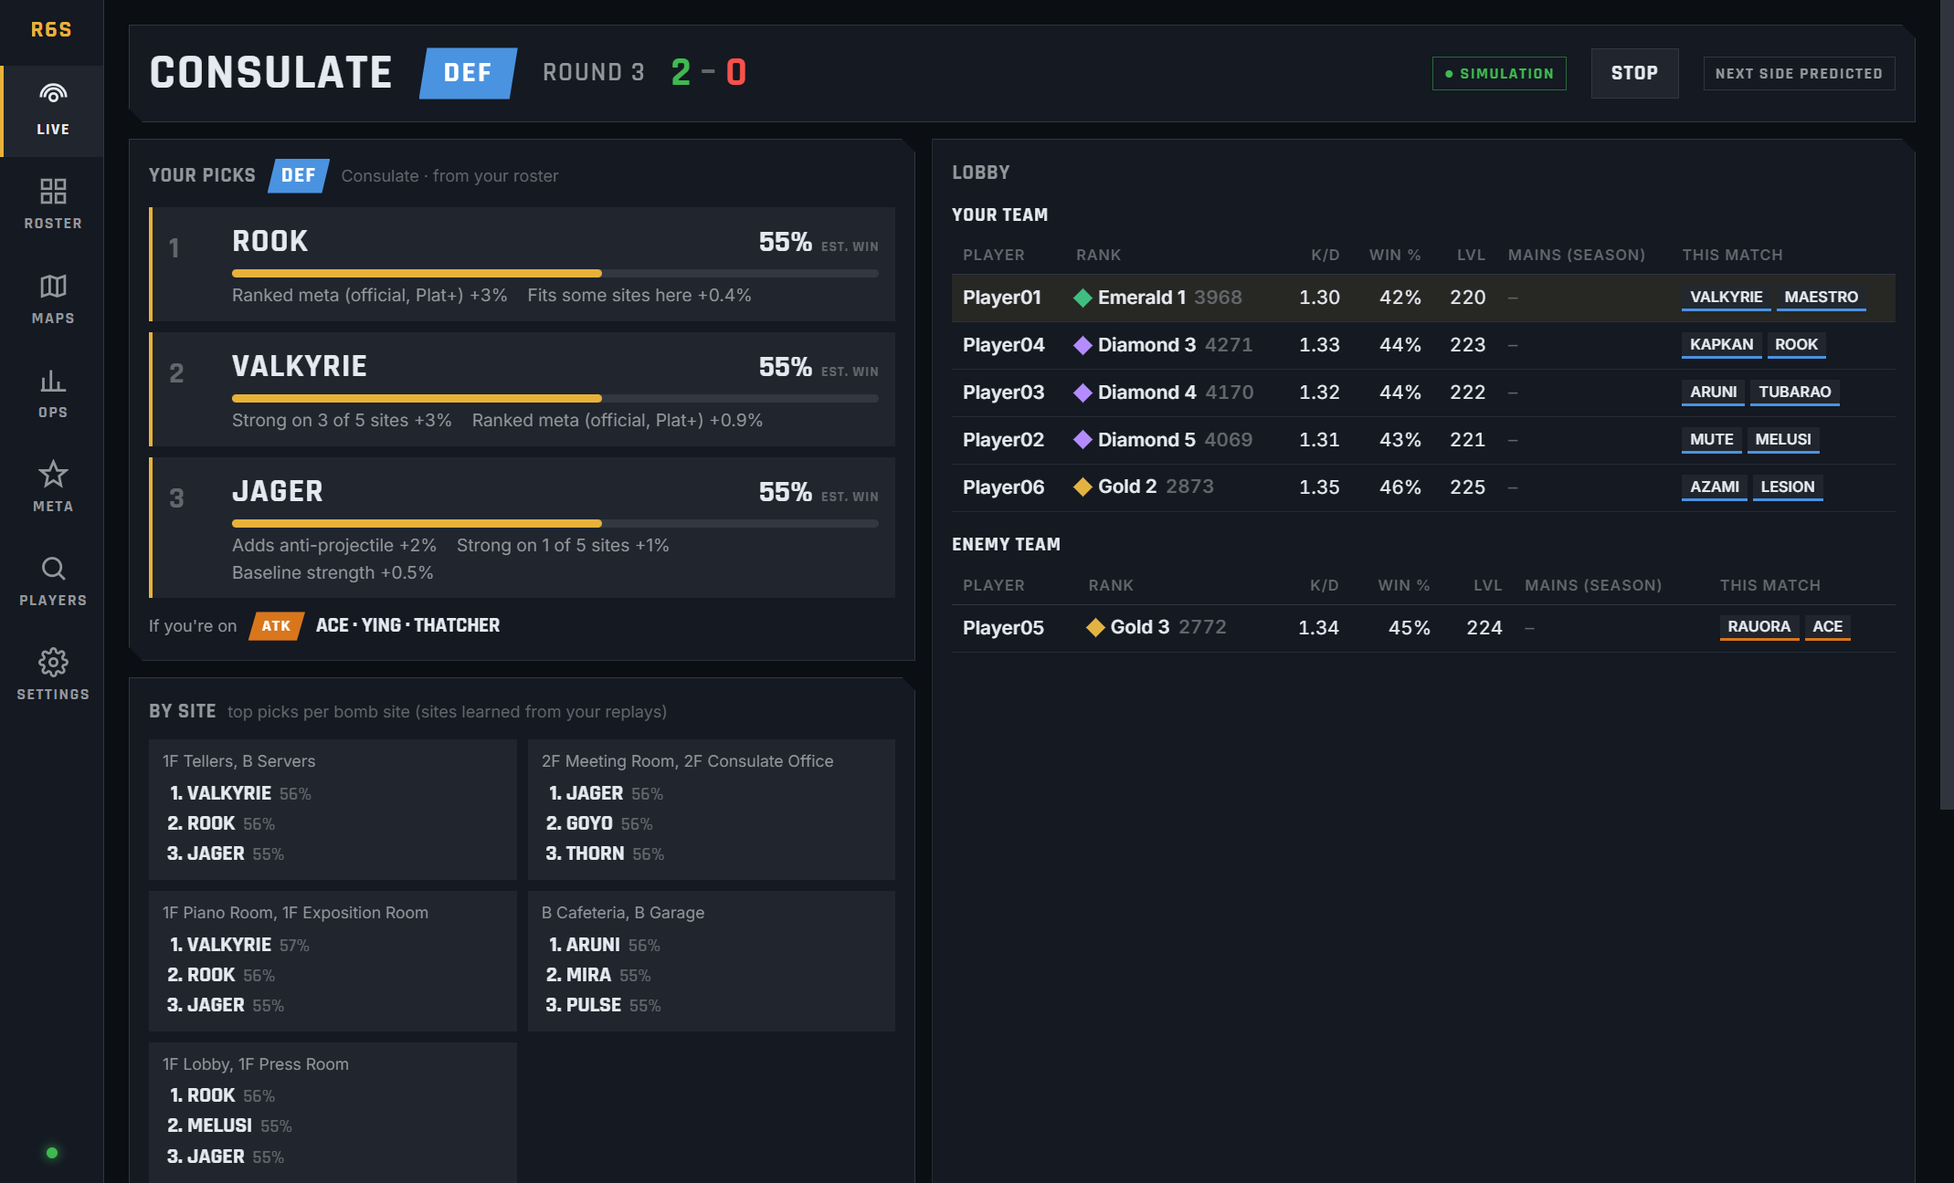
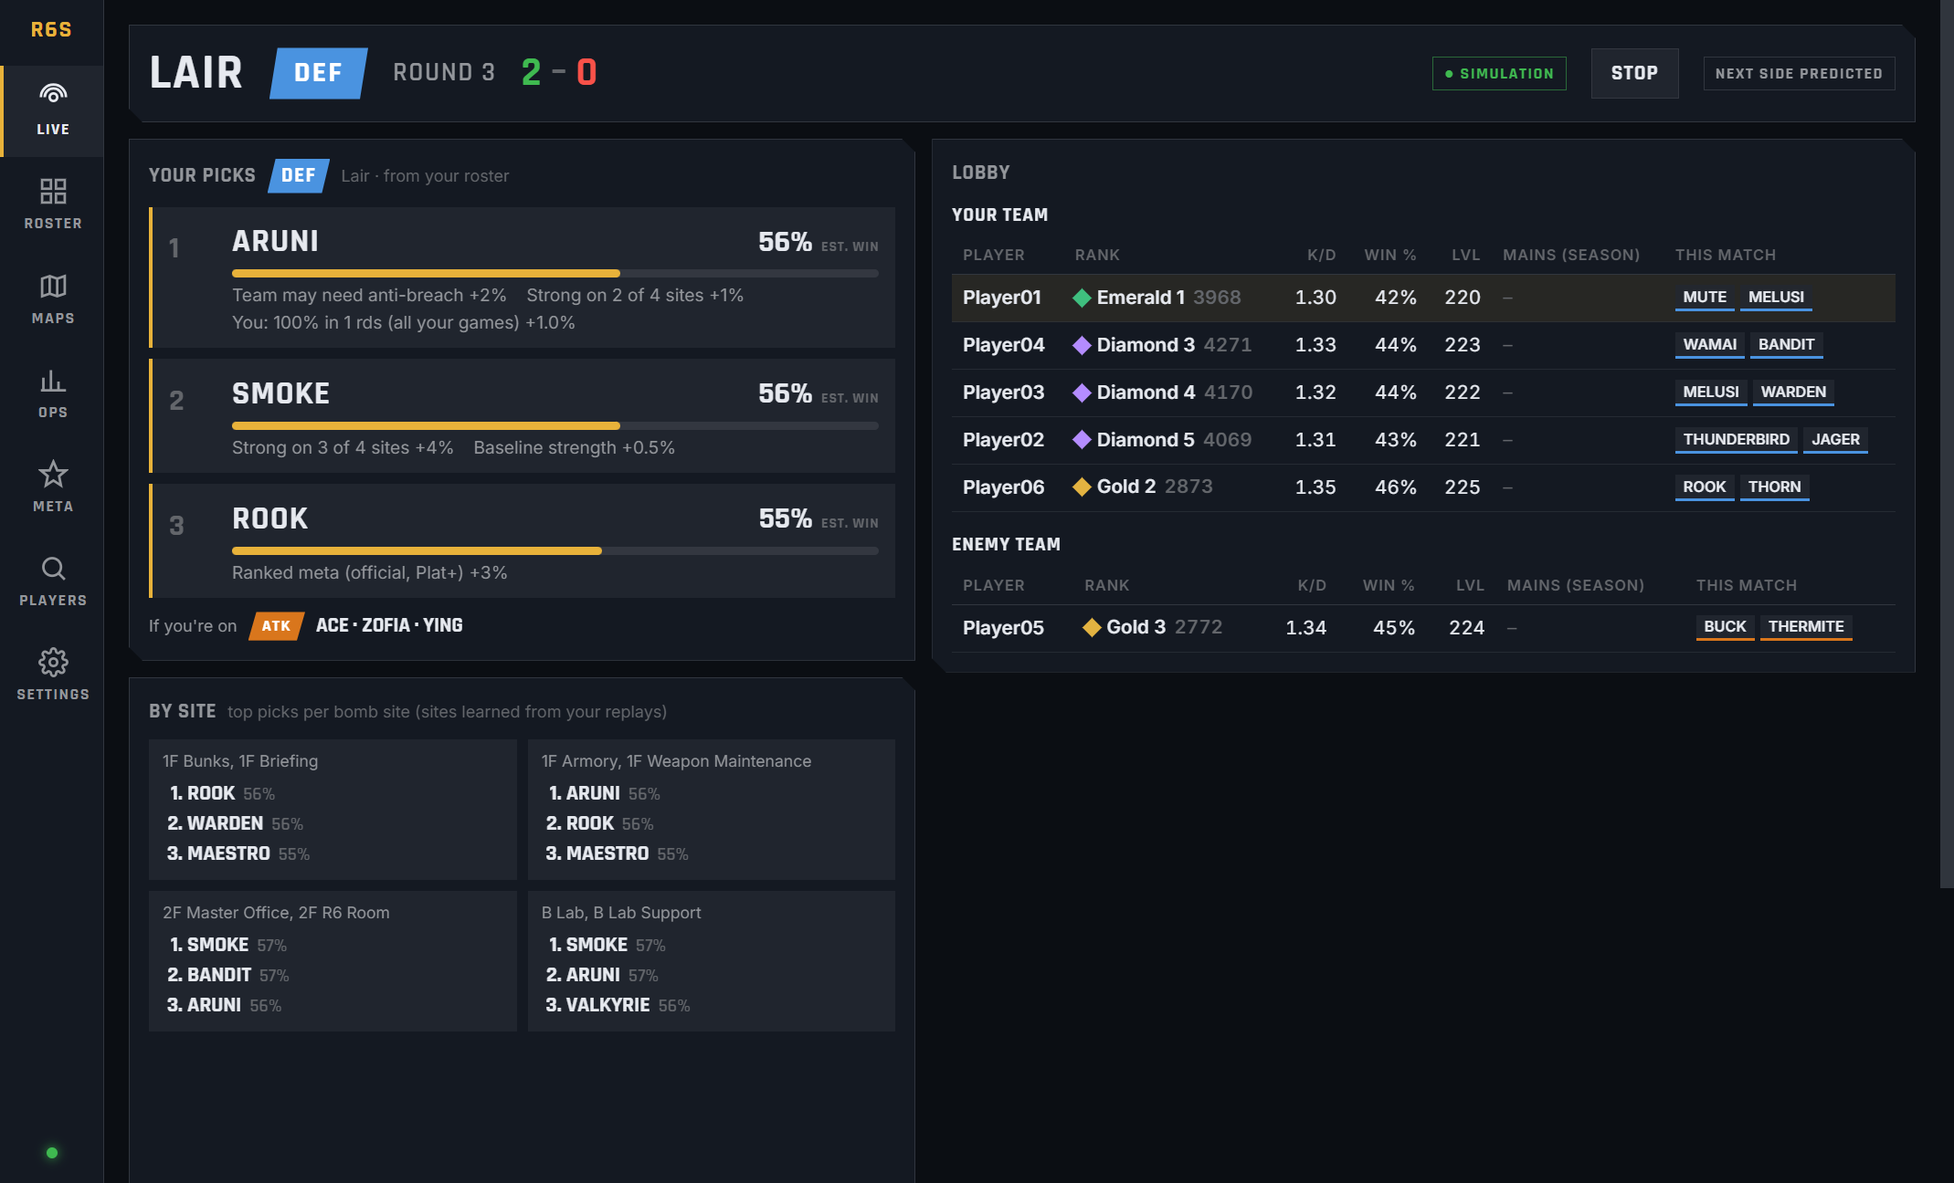
v0.4.1: ban suggestions per map (Live before round 1 + Maps tab)
Scored from pro ban rate on the map, official ranked ban rate and win
delta, map-strong list and global data, minus operators you play.

diff --git a/src/main/services.ts b/src/main/services.ts
@@ -1,7 +1,7 @@
 // Query layer shared by IPC handlers and the live engine.
 import type { Db } from './db'
 import type { Dataset } from '../shared/data/dataset'
-import type { ApiOps, GlobalFilter, GlobalMeta, GuideOp, LivePlayer, MapGuide, MetaRow, OpStatRow, Recommendation, Settings } from '../shared/ipc'
+import type { ApiOps, GlobalFilter, GlobalMeta, GuideOp, LivePlayer, MapBans, MapGuide, MetaRow, OpStatRow, Recommendation, Settings } from '../shared/ipc'
 import { baselineFor, recommend, ROLE_PRIOR, type AggMap } from '../shared/recommend'
 import { allOperators, operatorById, operatorByKey, operatorName, sideOfOperator } from '../shared/catalog'
 import type { RoleTag } from '../shared/data/operators'
@@ -9,6 +9,7 @@ import { KIND_FIT, mapStrongFor, proBansFor, seedSitesFor, siteKindFor, siteTier
 import { meta } from '../shared/data/meta'
 import type { Agg, Side } from '../shared/types'
 import { bandOf, type CrowdMeta } from '../shared/crowd'
+import { suggestBans } from '../shared/bans'
 
 export interface Ctx {
   db: Db
@@ -283,7 +284,7 @@ export function mapGuide(ctx: Ctx, mapKey: string, side: Side): MapGuide {
   const ranked = allOperators(side).map((op) => ({ ...cell(op.key), banRate: m.ranked.bans[side][op.key] ?? null }))
     .filter((r) => r.winDelta !== null || r.banRate !== null).sort(byDelta)
   return {
-    mapKey, side, sites, strong: mapStrongFor(mapKey, side).map(cell).sort(byDelta), proBans, proGames: m.maps[mapKey]?.proBans.games ?? 0,
+    mapKey, side, sites, bans: banSuggestions(ctx, mapKey), strong: mapStrongFor(mapKey, side).map(cell).sort(byDelta), proBans, proGames: m.maps[mapKey]?.proBans.games ?? 0,
     ranked, info: { version: m.version, patch: m.patch, rankedScope: m.ranked.scope, sources: m.sources, notes: m.notes }
   }
 }
@@ -306,4 +307,28 @@ export function globalMeta(ctx: Ctx, f: GlobalFilter, status: Pick<GlobalMeta, '
     rounds: career ? 0 : rows.reduce((n, r) => n + r.rounds, 0),
     scope: career ? 'career' : 'replays', rows, sites, yourBand: rank ? bandOf(rank) : null, ...status
   }
+}
+
+/** Global win delta per operator key on a side (vs that side's average, shrunk ~500 rounds), when 30+ players share. */
+export function globalDelta(ctx: Ctx, side: Side): Record<string, number> | undefined {
+  const g = ctx.crowd?.() ?? null
+  const band = yourBand(ctx, g)
+  if ((band !== null ? bandPlayers(g, band) : g?.players ?? 0) < 30) return undefined
+  const rows = [...globalOps(g, band ?? undefined)].filter(([k]) => operatorByKey(k)?.side === side)
+  const n = rows.reduce((s, [, a]) => s + a.rounds, 0)
+  if (!n) return undefined
+  const avg = rows.reduce((s, [, a]) => s + a.wins, 0) / n
+  return Object.fromEntries(rows.map(([k, a]) => [k, (a.wins + avg * 500) / (a.rounds + 500) - avg]))
+}
+
+/** Suggested bans on a map for both sides (each team bans one attacker and one defender). */
+export function banSuggestions(ctx: Ctx, mapKey: string, top = 3): MapBans {
+  const m = meta()
+  const forSide = (side: Side) => suggestBans({
+    side, candidates: allOperators(side).map((o) => ({ key: o.key, name: o.name })),
+    winDelta: m.ranked.winDelta[side], rankedBan: m.ranked.bans[side], proBan: proBansFor(mapKey), strong: mapStrongFor(mapKey, side),
+    crowdDelta: globalDelta(ctx, side),
+    yours: effectiveRoster(ctx, side).map((id) => operatorById(id)?.key).filter((k): k is string => !!k)
+  }, top)
+  return { attack: forSide('attack'), defense: forSide('defense') }
 }

diff --git a/src/shared/bans.ts b/src/shared/bans.ts
@@ -1,0 +1,47 @@
+// Ban suggestions for a map (the ban phase is before round 1, so the enemy lobby is not known yet:
+// suggestions come from what wins on this map, what pros ban here, and what you'd lose yourself).
+import type { Side } from './types'
+
+export interface BanCandidate { key: string; name: string }
+export interface BanInput {
+  side: Side
+  candidates: BanCandidate[]
+  /** Official ranked win delta (Plat+). */
+  winDelta: Record<string, number>
+  /** Official ranked ban rate. */
+  rankedBan: Record<string, number>
+  /** Pro ban rate on this map (share of games). */
+  proBan: Record<string, number>
+  /** Strong on this map (research). */
+  strong: string[]
+  /** Global RainbwStats win delta vs side average (already shrunk), when enough players share. */
+  crowdDelta?: Record<string, number>
+  /** Operators you'd play on this side (banning them costs you a pick). */
+  yours: string[]
+}
+export interface BanSuggestion { opKey: string; name: string; side: Side; score: number; reasons: string[] }
+
+const pct = (x: number) => `${Math.round(x * 100)}%`
+const signed = (x: number) => `${x >= 0 ? '+' : '−'}${Math.abs(x * 100).toFixed(1)}%`
+
+export function suggestBans(inp: BanInput, top = 3): BanSuggestion[] {
+  const out = inp.candidates.map((op) => {
+    const parts: { v: number; why: string }[] = []
+    const d = inp.winDelta[op.key]
+    // A win delta helps whoever picks it (both teams can), so it counts less than what players
+    // actually ban: pro bans on this map, then ranked ban rates.
+    if (d !== undefined) parts.push({ v: d * 60, why: `Ranked win delta ${signed(d)}` })
+    const pro = inp.proBan[op.key] ?? 0
+    if (pro > 0) parts.push({ v: 6 * pro, why: `Pros ban it ${pct(pro)} here` })
+    const rb = inp.rankedBan[op.key] ?? 0
+    if (rb > 0) parts.push({ v: 6 * rb, why: `Banned in ${pct(rb)} of ranked games` })
+    if (inp.strong.includes(op.key) && pro < 0.25) parts.push({ v: 1.5, why: 'Strong on this map' })
+    const c = inp.crowdDelta?.[op.key]
+    if (c !== undefined) parts.push({ v: 50 * c, why: `RainbwStats players ${signed(c)}` })
+    if (inp.yours.includes(op.key)) parts.push({ v: -4, why: 'You play it (costs you a pick)' })
+    const score = parts.reduce((n, p) => n + p.v, 0)
+    const reasons = parts.filter((p) => p.v > 0.3 || p.v < 0).sort((a, b) => Math.abs(b.v) - Math.abs(a.v)).map((p) => p.why)
+    return { opKey: op.key, name: op.name, side: inp.side, score: Math.round(score * 10) / 10, reasons }
+  })
+  return out.filter((b) => b.score > 1.5).sort((a, b) => b.score - a.score || a.name.localeCompare(b.name)).slice(0, top)
+}

diff --git a/test/bans.test.ts b/test/bans.test.ts
@@ -1,0 +1,34 @@
+import { describe, expect, it } from 'vitest'
+import { suggestBans } from '../src/shared/bans'
+import { openDb } from '../src/main/db'
+import { DEFAULT_SETTINGS } from '../src/main/settings'
+import { BUNDLED_DATASET } from '../src/shared/data/dataset'
+import { banSuggestions, type Ctx } from '../src/main/services'
+import { operatorByKey } from '../src/shared/catalog'
+import { rankedPool } from '../src/shared/data/sitePicks'
+
+const base = { side: 'defense' as const, winDelta: {}, rankedBan: {}, proBan: {}, strong: [], yours: [] }
+const ops = ['kaid', 'mira', 'rook', 'azami'].map((key) => ({ key, name: key }))
+
+describe('ban suggestions', () => {
+  it('ranks by map pro bans, ranked win delta and ban rate, with reasons', () => {
+    const r = suggestBans({ ...base, candidates: ops, proBan: { kaid: 0.71, mira: 0.39 }, winDelta: { rook: 0.032, azami: -0.007 }, rankedBan: { azami: 0.3 } })
+    // Pro bans on the map outweigh a raw win delta (which helps whichever team picks it).
+    expect(r.map((b) => b.opKey)).toEqual(['kaid', 'mira', 'rook'])
+    expect(r[0]!.reasons[0]).toBe('Pros ban it 71% here')
+  })
+  it("doesn't suggest banning what you play unless it is overwhelming", () => {
+    const r = suggestBans({ ...base, candidates: ops, proBan: { kaid: 0.71, mira: 0.39 }, yours: ['kaid'] })
+    expect(r.map((b) => b.opKey)).toEqual(['mira'])
+  })
+  it('gives every ranked map a ban per side from the researched data', () => {
+    const ctx: Ctx = { db: openDb(':memory:'), settings: () => DEFAULT_SETTINGS, dataset: () => BUNDLED_DATASET, me: () => null }
+    for (const map of rankedPool()) {
+      const b = banSuggestions(ctx, map)
+      expect(b.attack.length, map).toBeGreaterThan(0)
+      expect(b.defense.length, map).toBeGreaterThan(0)
+      for (const x of b.attack) expect(operatorByKey(x.opKey)?.side).toBe('attack')
+      for (const x of b.defense) expect(operatorByKey(x.opKey)?.side).toBe('defense')
+    }
+  })
+})

diff --git a/src/main/live/state.ts b/src/main/live/state.ts
@@ -1,12 +1,12 @@
 // Pure construction of LiveState from stored rounds. No I/O beyond the Ctx queries.
 import type { Ctx } from '../services'
-import { mainsOf, outsideRosterPick, recsFor, siteRecsFor, type Teammate } from '../services'
+import { banSuggestions, mainsOf, outsideRosterPick, recsFor, siteRecsFor, type Teammate } from '../services'
 import type { LivePhase, LivePlayer, LiveState, PlayerCard, RoundSummary } from '../../shared/ipc'
 import type { RoundRecord, Side } from '../../shared/types'
 
 export const emptyLive = (gameRunning = false): LiveState => ({
   phase: gameRunning ? 'game' : 'idle', gameRunning, matchId: null, mapKey: null, side: null, site: null, nextRound: 1,
-  score: [0, 0], myTeam: [], enemyTeam: [], recommendations: [], otherSide: null, outsideRoster: null, siteRecs: [], rounds: [], source: null, lobbyError: null,
+  score: [0, 0], myTeam: [], enemyTeam: [], recommendations: [], otherSide: null, outsideRoster: null, siteRecs: [], rounds: [], bans: null, source: null, lobbyError: null,
   updatedAt: new Date().toISOString()
 })
 
@@ -93,6 +93,7 @@ export function buildLive(ctx: Ctx, rounds: RoundRecord[], o: BuildOpts): LiveSt
     otherSide: otherSidePicks(ctx, mapKey, side, teammates),
     siteRecs: site ? [] : siteRecsFor(ctx, mapKey, side, 3, teammates),
     rounds: summaries,
+    bans: null, // ban phase is over once a round is recorded
     source: o.override ? 'ocr' : 'replay',
     lobbyError: o.lobbyError ?? null,
     updatedAt: new Date().toISOString()
@@ -112,6 +113,7 @@ function overrideOnly(ctx: Ctx, o: BuildOpts): Partial<LiveState> {
     outsideRoster: outsideRosterPick(ctx, { mapKey, side, site }, first[0]),
     otherSide: otherSidePicks(ctx, mapKey, side),
     siteRecs: site ? [] : siteRecsFor(ctx, mapKey, side),
+    bans: banSuggestions(ctx, mapKey),
     source: o.phase === 'idle' ? 'preview' : 'ocr'
   }
 }

diff --git a/src/shared/ipc.ts b/src/shared/ipc.ts
@@ -2,6 +2,7 @@
 // for every method in API_METHODS (channel "rs:<method>"). Live updates arrive on "rs:live".
 import type { Agg, Side } from './types'
 import type { CatalogOverrides } from './catalog'
+import type { BanSuggestion } from './bans'
 
 export interface PlayerCard {
   profileId: string
@@ -59,6 +60,8 @@ export interface LiveState {
   outsideRoster: Recommendation | null
   siteRecs: { site: string; recs: Recommendation[] }[]
   rounds: RoundSummary[]
+  /** Suggested bans for the map (shown before round 1, when the map is known). */
+  bans: MapBans | null
   source: 'replay' | 'ocr' | 'preview' | 'simulation' | null
   lobbyError: string | null
   updatedAt: string
@@ -150,9 +153,11 @@ export interface SimRequest { mapKey: string; side: Side; myTeam: string[]; enem
 
 /** One operator in the Maps tab, with the signals used to sort/explain it. */
 export interface GuideOp { key: string; name: string; winDelta: number | null; proBan: number | null; yourRounds: number; yourWinRate: number | null }
+export interface MapBans { attack: BanSuggestion[]; defense: BanSuggestion[] }
 export interface MapGuide {
   mapKey: string
   side: Side
+  bans: MapBans
   sites: { name: string; kind: 'basement' | 'ground' | 'upper'; source: 'research' | 'curated' | 'none'; confidence: number; S: GuideOp[]; A: GuideOp[]; picks: Recommendation[] }[]
   strong: GuideOp[]
   proBans: GuideOp[]

diff --git a/src/renderer/src/pages/Live.tsx b/src/renderer/src/pages/Live.tsx
@@ -4,6 +4,7 @@ import { allMaps, mapName } from '../../../shared/catalog'
 import { pickerMaps } from '../../../shared/data/sitePicks'
 import type { Side } from '../../../shared/types'
 import { OpChip, RankBadge, Meter, SideTag, Seg, pct, ratio, rs, useData } from '../lib'
+import { BansPanel } from '../Bans'
 
 export function LivePage({ live, settings, status }: { live: LiveState | null; settings: Settings; status: AppStatus | undefined }) {
   const [preview, setPreview] = useState<LiveState | null>(null)
@@ -23,7 +24,12 @@ export function LivePage({ live, settings, status }: { live: LiveState | null; s
               {p.recommendations && <Picks s={s} />}
               {p.siteBreakdown && s.siteRecs.length > 0 && <SiteBreakdown s={s} />}
             </div>
-            {p.teams && inMatch && <Teams s={s} />}
+            {(s.bans && s.rounds.length === 0) || (p.teams && inMatch) ? (
+              <div className="row" style={{ alignItems: 'stretch', flexDirection: 'column', gap: 'var(--gap)' }}>
+                {s.bans && s.rounds.length === 0 && <BansPanel bans={s.bans} note="ban phase · ops you play rank lower" />}
+                {p.teams && inMatch && <Teams s={s} />}
+              </div>
+            ) : null}
           </div>
           {p.timeline && inMatch && s.rounds.length > 0 && <Timeline s={s} />}
         </>

diff --git a/src/renderer/src/Bans.tsx b/src/renderer/src/Bans.tsx
@@ -1,0 +1,22 @@
+// Suggested bans (one attacker + one defender per team), shared by the Live page and the Maps tab.
+import type { MapBans } from '../../shared/ipc'
+import { SideTag } from './lib'
+
+export function BansPanel({ bans, note }: { bans: MapBans; note?: string }) {
+  return (
+    <div className="panel">
+      <h2>Suggested bans <span className="sub">{note ?? 'for this map · hover for why'}</span></h2>
+      {(['attack', 'defense'] as const).map((side) => (
+        <div className="row" key={side} style={{ gap: 8, marginBottom: 8 }}>
+          <SideTag side={side} />
+          {bans[side].length ? bans[side].map((b, i) => (
+            <span key={b.opKey} className="opchip" title={b.reasons.join(' · ')} style={i === 0 ? { fontSize: '0.9rem', padding: '3px 9px' } : undefined}>
+              {b.name}
+              <span className="faint small" style={{ marginLeft: 6, textTransform: 'none', fontFamily: 'var(--body)', fontWeight: 400 }}>{b.reasons[0]}</span>
+            </span>
+          )) : <span className="faint small">No clear ban</span>}
+        </div>
+      ))}
+    </div>
+  )
+}

diff --git a/src/renderer/src/pages/Maps.tsx b/src/renderer/src/pages/Maps.tsx
@@ -5,6 +5,7 @@ import { allMaps } from '../../../shared/catalog'
 import { pickerMaps } from '../../../shared/data/sitePicks'
 import type { Side } from '../../../shared/types'
 import { Bar, Seg, SideTag, pct, rs, useData, useSort } from '../lib'
+import { BansPanel } from '../Bans'
 
 const signed = (x: number | null) => (x === null ? '' : `${x >= 0 ? '+' : '−'}${Math.abs(x * 100).toFixed(1)}%`)
 
@@ -67,6 +68,7 @@ export function MapsPage() {
           </div>
 
           <div style={{ display: 'flex', flexDirection: 'column', gap: 'var(--gap)' }}>
+            <BansPanel bans={g.bans} />
             <div className="panel">
               <h2>Strong on this map <SideTag side={side} /></h2>
               <div className="row" style={{ gap: 6 }}>{g.strong.length ? g.strong.map((o) => <Op key={o.key} op={o} />) : <span className="faint small">No map-level data</span>}</div>

diff --git a/PLAN.md b/PLAN.md
@@ -154,7 +154,7 @@ Legend: [ ] todo · [x] done. Each phase ends with: tests green → PLAN updated
 
 ### Next (proposed order)
 1. **Rank-banded meta**: we know every lobby player's rank → meta per rank tier ("what wins at Emerald"). Cheap, high value
-2. **Ban suggestions**: enemy mains + their win rates → suggested bans before the ban phase
+2. ~~Ban suggestions~~ ✅ v0.4.1 (map-based; the enemy lobby isn't known until round 1 ends)
 4. Export/import local data between PCs (replay-derived map/site stats)
 
 ### Backlog / expansion
@@ -196,6 +196,7 @@ weapon/attachment stats from replays · export CSV · per-patch diff view ("what
 | 2026-10-20 | 10.1 | **Researched meta for Y11S3.2** (docs/META-RESEARCH.md, rerunnable): siegestrats crawler (338 per-site lineups), Liquipedia pro bans (294 games), official ranked bans + win deltas read from Designer's Notes charts, manual overrides (Tubarão CCTV). Generated meta.json drives site tiers (evidence-weighted), map strong lists (pro must-bans), ranked deltas in the meta term; shipped in the downloadable dataset. Ranked pool only (15 maps) in pickers/simulator. Corrected outdated sites (Villa rework etc.). 67 tests. Real-profile E2E hit a Ubisoft session rate limit after repeated test runs (not a bug) |
 | 2026-10-20 | 10.2 | **Maps tab** (v0.3.2): researched meta per ranked map and side outside a live game: site S/A tiers with ranked win deltas, your top picks per site, strong-on-map list, pro bans, ranked meta table (win delta, ban rate, pro ban, your record). **Every operator table is sortable by any column, defaulting to win-rate delta** (Ops: Ubisoft + replays; Meta: players met + replays; Maps). Personal/crowd delta is shrunk toward the side average (~20 rounds) so tiny samples don't top the list. Demo screenshots include Maps (7-maps.png). 67 tests |
 | 2026-10-20 | 8 | **Global crowd DB** (v0.4.0): Worker deployed (rainbwstats-crowd.nanotechservices.workers.dev, D1 rainbwstats). Verified locally with wrangler dev: ingest validation, newer-wins upsert, round dedupe, custom games excluded, cron aggregation, rate limit (429 after 4/min burst). Production: health, empty meta, empty ingest, bad request OK. App: opt-in sharing, Meta → Global, recs prefer larger global samples. 72 tests |
+| 2026-10-20 | 10.3 | **Ban suggestions** (v0.4.1): per map, one list per side, scored from pro ban rate on the map, official ranked ban rate, ranked win delta (weighted lower: it helps whoever picks it), map-strong list, global RainbwStats delta (when 30+ players), minus ops you play. Shown on Live before round 1 (OCR / preview / simulation) and on the Maps tab. Audit over the 15 ranked maps: Mira/Kaid/Bandit/Wamai/Azami and Solid Snake/Ace/Thermite/Montagne, i.e. the real ranked ban pool. 75 tests |
 | 2026-10-20 | 10 | User: picks felt wrong (one attacker everywhere; Kaid/Bandit/hard breachers always top; Tubarão should be CCTV). Rebuilt recommender as **estimated round win chance** with signed reasons. Richer S/A site tiers (Tubarão S on Clubhouse CCTV), site-kind fit tier, site-unknown averaging, team-need model for hard breach/anti-breach from teammates (new slider), stronger shrinkage (1 lucky round +0.9% not +3%), outside-roster suggestion. Real-data check (user roster has no hard breachers): attack now uses 8/10 roster ops across sites, defense 9; tests for every reported case. 62 tests |
 | 2026-10-19 | 9.4 | User report: same 3 picks on every map/site. Cause: no map/site-specific signal (Ubisoft stats have no map breakdown: probed, 0 per-map stat names; 1 replay). Fix: curated site specialists for 17 maps (sitePicks.ts, remote-overridable) as a new weight "site" (0.25; untouched old defaults migrated), role-diversity re-ranking (−10 per repeated primary role), empty roster = operators you've played 10+ rounds. Verified on real data: defense picks now vary per map/site (e.g. basements Frost/Echo/Smoke, CCTV Mute/Maestro); attack keeps Thermite/Ace (user: 70%/64% vs 37–48% on mains) with a site-varying 3rd pick. 62 tests |
 | 2026-10-19 | 9.3 | **Audit with the user's real data** (copied profile, real login, Siege running). Found + fixed: (1) OCR never worked on real captures: 24-bit PNG + console code page → JSON parse failure → 0 lines (now UTF-8 I/O, control-char strip, BGRA8); (2) OCR false positive "Border" from code on screen → OCR now only while Siege is the **foreground** process (user32 via the worker), map/side must be short standalone labels, both-sides frames ignored, 2-frame confirmation, mid-match OCR can only change side/site; (3) side is now re-read every round between rounds (prediction is a fallback) + "If you're on ATK/DEF" row; (4) Stop did nothing after a simulation finished / new sim silently ignored → cancellation tokens; (5) friends showed blank names (nickname alias) → real usernames; (6) "Unranked 0". Recommender audit: 558 static recs + 105 simulated live states with real players/mains → 0 side mismatches. 58 tests |
